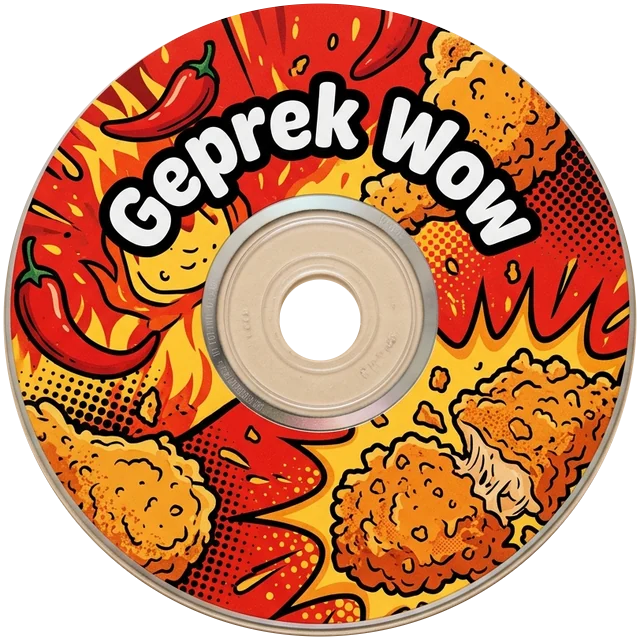
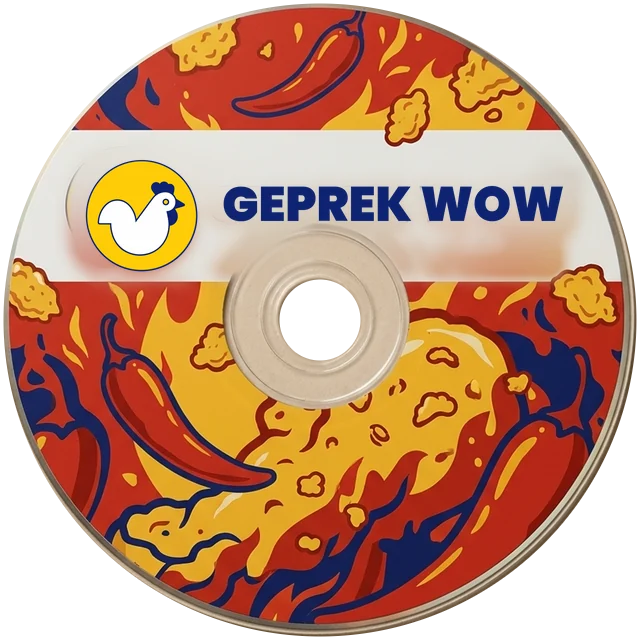
aset: cakram klien dan pribadi berlogo asli (Terasol, Masaya Food, Tumtim, BNI, lockup proyek)

diff --git a/public/assets/klien/cakram/PROVENANCE.md b/public/assets/klien/cakram/PROVENANCE.md
@@ -19,3 +19,18 @@ Selisih piksel tinta logo dengan berkas asli paling besar sekitar 4/255.
 
 Prompt lengkap ada di riwayat sesi dan pola umumnya di skill aset-visual-web §2b (coderoach-app).
 Unduhan mentah: `D:\downloads\claude\2026-11-12-flow-cakram-klien\`.
+
+## Revisi 12 Nov 2026: semua cakram berlogo asli
+
+Atas revisi Farrez ("harus jelas ada logonya"). Unduhan mentah di `v2enar\`.
+
+| Berkas | Varian | Logo | Catatan |
+|---|---|---|---|
+| terasol | a | terasol-lockup.png | logo rumah dari booklet; ikon bulat aplikasi tidak dipakai lagi |
+| chicken-wow, geprek-wow | a, b | lockup-chicken-wow, lockup-geprek-wow | satu kelompok Masaya Food |
+| masaya-food | a | masaya-food.png | induk Chicken Wow dan Geprek Wow |
+| tumtim | a | tumtim.png | |
+| bni | b | bni.png | menggantikan acms.webp; logo sumber 241 px, sedikit diperbesar |
+| pribadi-fifofun, -nds-etl (b), -akarkita, -jeda (b), -yiheecam, -d-day (b) | | lockup-<slug>.png | gaya dari label album, dua bahan Flow; d-day a gugur (skor 0,36) |
+
+Dihapus: saksama.webp, acms.webp (tanpa logo), pribadi-pilot-iklan.webp (proyek tanpa logo, menunggu keputusan Farrez).
